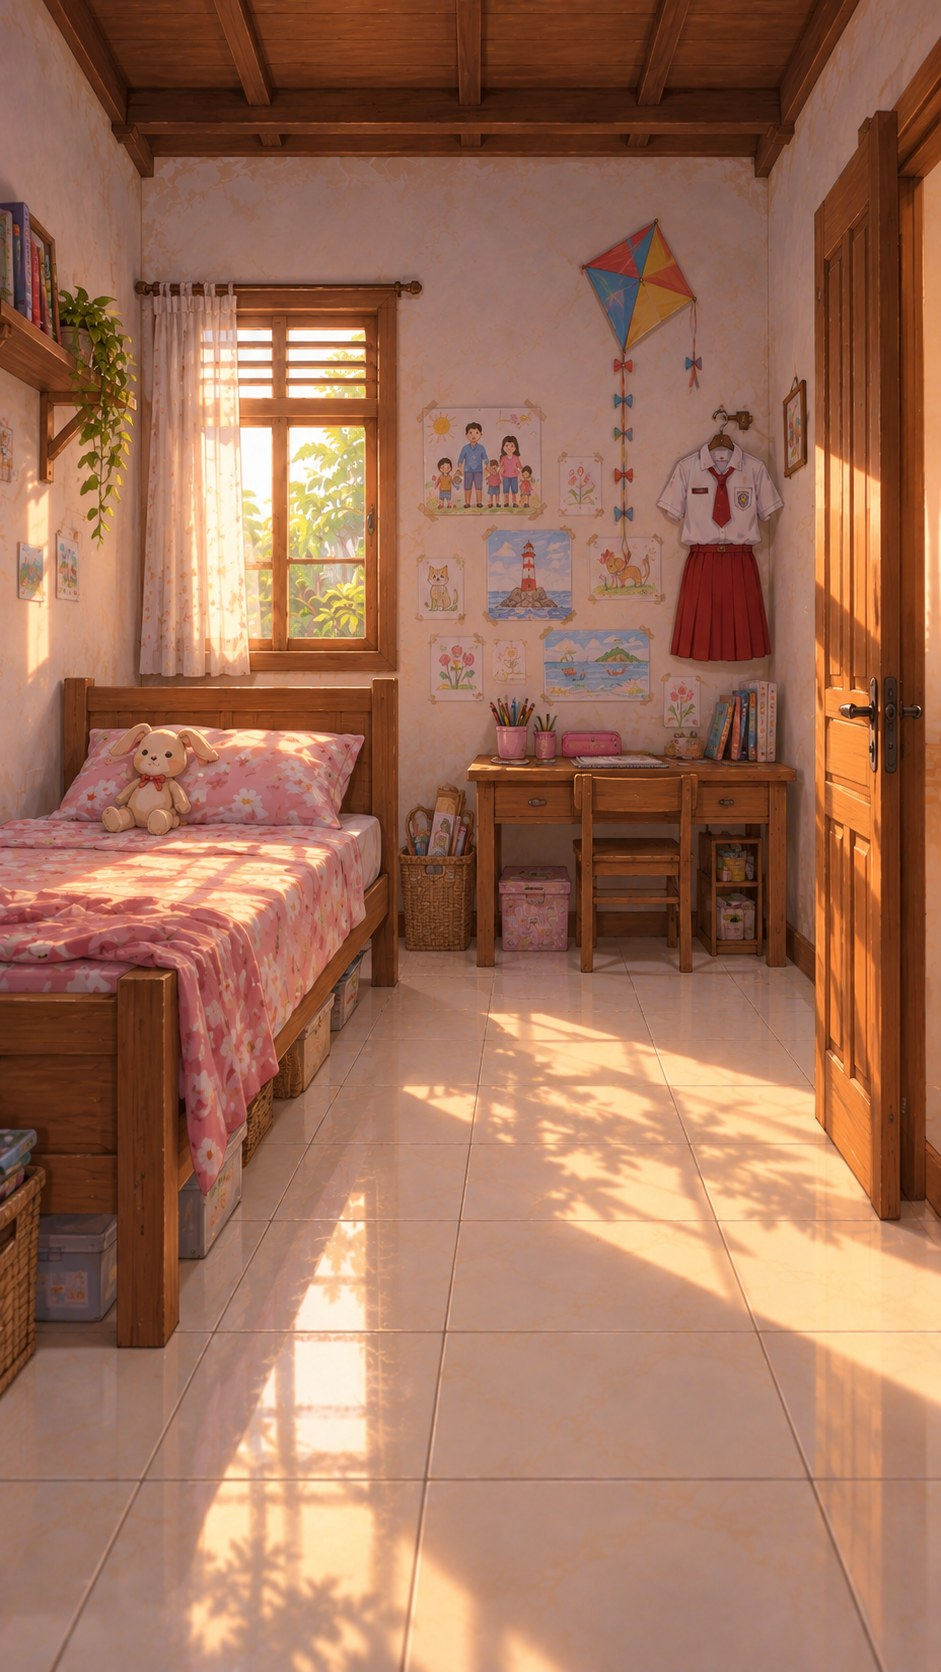
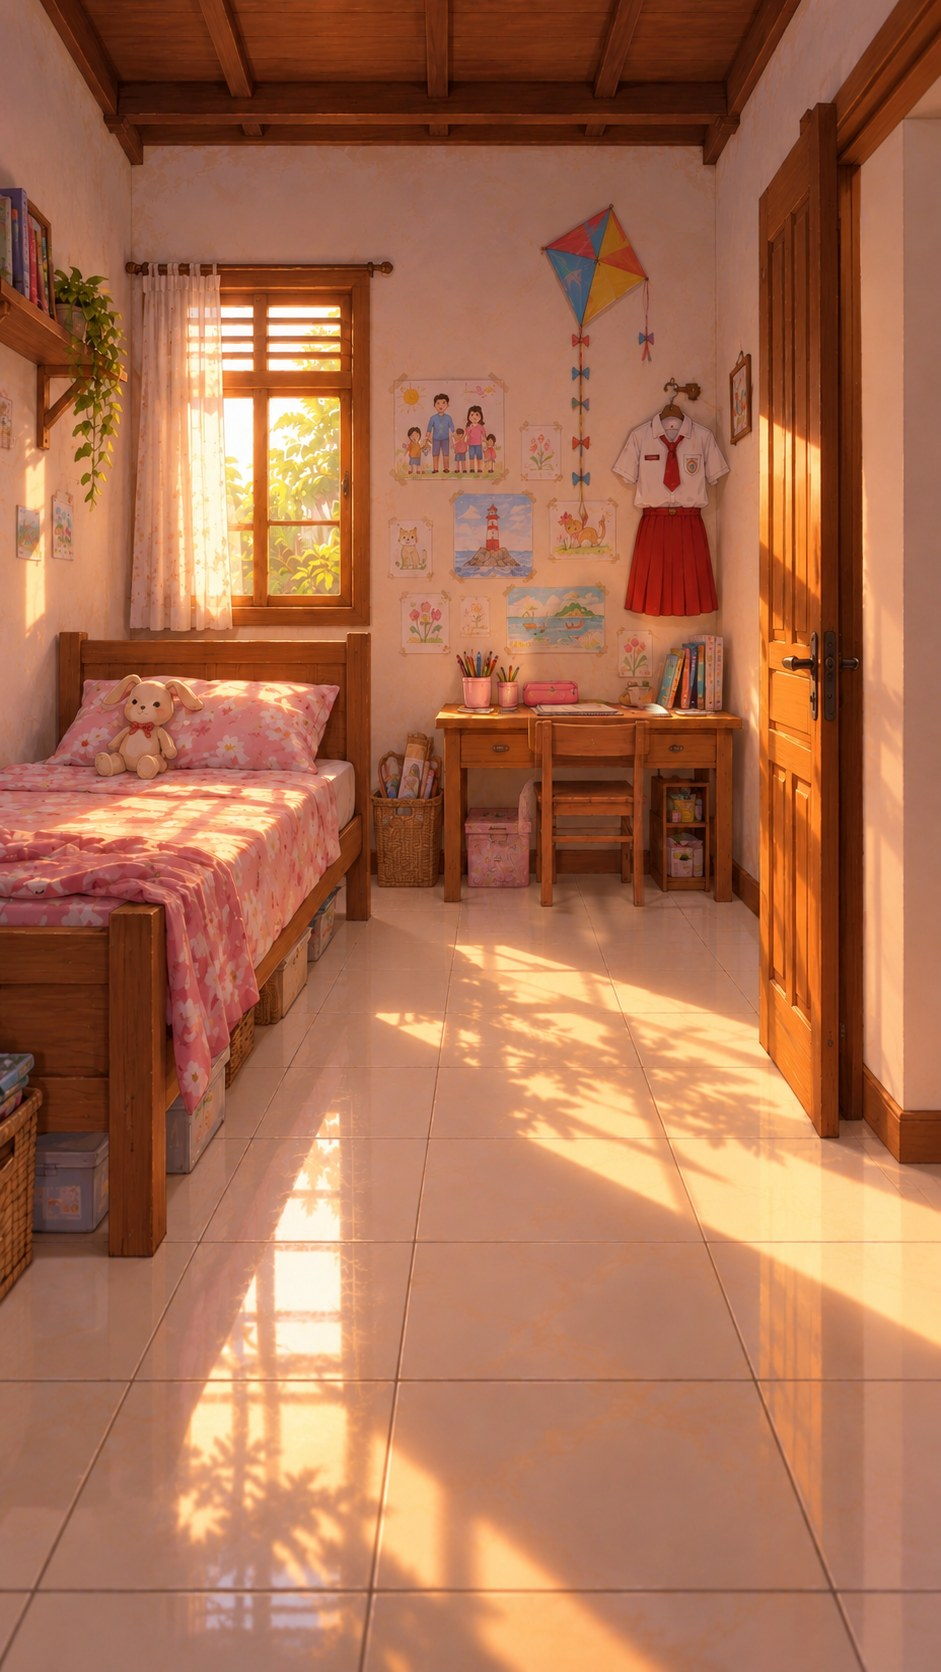
Kamar Laras lengkap (4 waktu, PR siang/sore, menggambar malam) + fitur tokoh tidur (Laras tidur di kamarnya)
Claude-Session: https://claude.ai/code/session_01MRhMC5f5cmwfwJoAVQABm5

diff --git a/app/src/main/java/com/valeriusgames/threadsofdestiny/game/GameActivity.kt b/app/src/main/java/com/valeriusgames/threadsofdestiny/game/GameActivity.kt
@@ -1274,6 +1274,28 @@ class GameActivity : Activity() {
             byPlan || byAppt
         }
 
+    /** Orang yang sedang TIDUR di lokasi ini (kolom "tidur" di karakter.txt); tidak sedang punya jadwal bangun. */
+    private fun sleepersAt(loc: GameData.LocationDef): List<GameData.CharacterDef> =
+        gameData.characters.values.filter { c ->
+            social.rel(c).met && presentInStory(c) && whereIs(c) == null &&
+                gameData.sleepLocation(c, life.weekdayIndex, life.minute, todayTgl()) == loc.id
+        }
+
+    /** Mengetuk orang yang sedang tidur: tidak membangunkannya; sekali semalam boleh merapikan selimutnya. */
+    private fun tapSleeper(c: GameData.CharacterDef) {
+        closeSheet()
+        hideExploreUi()
+        afterTap = { showFreeSheet() }
+        val key = "selimut_${c.id}"
+        if (vars[key] != life.day.toString()) {
+            vars[key] = life.day.toString()
+            announce(social.changeLove(gameData, c.id, 1))
+            showLine(null, c.text["tidur_teks"] ?: "${c.name} sudah tidur pulas. Kamu merapikan selimutnya pelan-pelan, lalu keluar tanpa suara.")
+        } else {
+            showLine(null, "${c.name} masih tidur pulas. Biarkan saja.")
+        }
+    }
+
     private fun buildExplore(loc: GameData.LocationDef) {
         if (wait != Wait.FREE || currentLocation()?.id != loc.id) return
         exploreLayer.removeAllViews()
@@ -1292,6 +1314,17 @@ class GameActivity : Activity() {
                     if (hints) addMarker("💬 ${c.name}", spot.x, spot.y - spot.height, 0) { meetCharacter(c) }
                 } else {
                     addMarker("👤 ${c.name}", spot.x, spot.y - spot.height * 0.6f, 0, always = true, showLabel = true) { meetCharacter(c) }
+                }
+            }
+            // orang yang tidur: posisi khusus "<id>_tidur" di lokasi.txt
+            sleepersAt(loc).forEach { c ->
+                val spot = loc.people.firstOrNull { it.charId == "${c.id}_tidur" }
+                    ?: loc.people.firstOrNull { it.charId == c.id } ?: GameData.PersonSpot(c.id, 0.5f, 0.80f, 0.20f)
+                if (drawn) {
+                    addTapZone(spot.x, spot.y, spot.height, sc) { tapSleeper(c) }
+                    if (hints) addMarker("😴 ${c.name}", spot.x, spot.y - spot.height, 0) { tapSleeper(c) }
+                } else {
+                    addMarker("😴 ${c.name}", spot.x, spot.y - spot.height * 0.6f, 0, always = true, showLabel = true) { tapSleeper(c) }
                 }
             }
         }
@@ -1422,7 +1455,7 @@ class GameActivity : Activity() {
      * latar/ruang_makan__ayah_ibu_laras.jpg. Hanya orang yang sudah dikenal; id diurutkan abjad. null bila belum ada.
      */
     private fun presenceFile(loc: GameData.LocationDef): String? {
-        val ids = peopleAt(loc).map { it.id }.sorted()
+        val ids = (peopleAt(loc).map { it.id } + sleepersAt(loc).map { "${it.id}_tidur" }).sorted()
         if (ids.isEmpty()) return null
         return "${loc.id}__${ids.joinToString("_")}".takeIf { it in latarFiles }
     }

diff --git a/app/src/test/java/com/valeriusgames/threadsofdestiny/ExploreTest.kt b/app/src/test/java/com/valeriusgames/threadsofdestiny/ExploreTest.kt
@@ -51,6 +51,11 @@ class ExploreTest {
         assertEquals("PR di kamarnya", "kamar_laras", at("laras", SENIN, "15:00"))
         assertEquals("TV malam", "ruang_tengah", at("laras", SENIN, "19:00"))
         assertEquals("menggambar sebelum tidur", "kamar_laras", at("laras", SENIN, "20:45"))
+        // tidur: tampil di kamarnya, bukan jadwal bangun
+        assertNull("tidur bukan jadwal bangun", at("laras", SENIN, "22:00"))
+        assertEquals("kamar_laras", GameData.locationAt(chars.getValue("laras")["tidur"], 0, 22 * 60))
+        assertEquals("kamar_laras", GameData.locationAt(chars.getValue("laras")["tidur"], 1, 5 * 60))
+        assertNull(GameData.locationAt(chars.getValue("laras")["tidur"], 1, 7 * 60))
         assertEquals("rumah_warung", at("laras", MINGGU, "09:00"))
         assertEquals("layangan Minggu", "lapangan", at("laras", MINGGU, "15:00"))
         assertEquals("lapangan", at("bayu", SENIN, "16:00"))

diff --git a/app/src/main/java/com/valeriusgames/threadsofdestiny/life/GameData.kt b/app/src/main/java/com/valeriusgames/threadsofdestiny/life/GameData.kt
@@ -75,6 +75,16 @@ class GameData private constructor(
     }
 
     /**
+     * Tempat karakter TIDUR sekarang (kolom "tidur", saat libur "tidur_libur"), atau null.
+     * Orang yang tidur tampil di latar (gambar latar/<lokasi>__<id>_tidur.jpg) tapi tidak bisa diajak bicara.
+     */
+    fun sleepLocation(c: CharacterDef, weekdayIndex: Int, minute: Int, tgl: Int = 0): String? {
+        val alt = c.text["tidur_libur"]
+        if (!alt.isNullOrBlank() && tgl > 0 && inDateRange(c.text["libur"], tgl)) return locationAt(alt, weekdayIndex, minute)
+        return locationAt(c.text["tidur"], weekdayIndex, minute)
+    }
+
+    /**
      * Karakter yang nama/jenis kelaminnya menyesuaikan pemain (kolom nama_l / nama_p,
      * kelamin = lawan). Diatur ulang lewat [applyPlayerGender].
      */

diff --git a/tools/cek_naskah.py b/tools/cek_naskah.py
@@ -269,6 +269,8 @@ if os.path.exists(lk):
                 err(lk, e["_line"], f"[{lid}] benda '{f[0]}': tambahkan {lid} ke 'lokasi' aktivitas itu di aktivitas.txt")
         for part in [p for p in e.get("orang", "").split(";") if p.strip()]:
             cid = part.strip().split()[0]
+            if cid.endswith("_tidur"):  # posisi saat tidur (kolom "tidur" di karakter.txt)
+                cid = cid[:-len("_tidur")]
             if cid not in chars:
                 err(lk, e["_line"], f"[{lid}] orang '{cid}' tidak ada di karakter.txt")
     for c in entries(os.path.join(data, "karakter.txt")):

diff --git a/docs/PROGRES.md b/docs/PROGRES.md
@@ -10,6 +10,7 @@
 
 | Tanggal | Build | Yang dikerjakan |
 |---|---|---|
+| 21 Okt 2026 | 62 | **Kamar Laras lengkap + Laras tidur.** Gambar baru pemilik: kamar Laras pagi/siang/sore/malam (versi sore kosong dibuat dengan menghapus Laras dari gambar sore), Laras PR siang & sore, Laras menggambar malam, Laras tidur. **Fitur baru: tokoh tidur** — kolom `tidur` / `tidur_libur` / `tidur_teks` di karakter.txt; orang yang tidur tampil di latar (`<lokasi>__<id>_tidur.jpg`, posisi `<id>_tidur` di lokasi.txt), tidak bisa diajak bicara; diketuk = merapikan selimutnya (sekali semalam, Cinta +1). Laras tidur di kamarnya 21:00–06:15 (libur sampai 07:30) |
 | 21 Okt 2026 | 61 | **Rumah desa: ruang tengah baru + 2 kamar baru** (keputusan pemilik). Denah: dinding kiri = dinding luar (pintu depan, jendela, foto keluarga), pintu **kamar Ayah & Ibu** di dinding belakang kiri lengkungan, ruang makan hanya selebar lengkungan, pintu **kamar Laras** & kamarmu di dinding kanan. Ruang tengah punya 4 versi waktu (gambar dasar = sore, + pagi/siang/malam) dan gambar dengan tokoh: sore Ayah, malam Ibu & Laras, malam Ibu sendiri (Laras dihapus dari gambar malam). Lokasi baru `kamar_ayah_ibu` & `kamar_laras`. Laras mengerjakan PR di kamarnya (14:00–16:00) dan menggambar sebelum tidur (20:30–21:00); kegiatan *Membantu PR Laras*, adegan *Laras diejek* & *PR matematika* (Bab 2) dan *kotak sepatu* (Bab 3 desa) pindah ke kamar Laras; adegan *celengan bambu* (Bab 3 kota) pindah ke kamar Ayah & Ibu. Posisi pintu/benda/orang ruang tengah disesuaikan dengan gambar baru |
 | 20 Okt 2026 | 59 | **Sisa putih di celah tangan dihapus** (masukan pemilik): celah latar yang terkurung antara lengan & badan / sela kaki / sela rambut tidak terhapus oleh `hapus_latar.py` (hanya membuang putih yang tersambung ke tepi). Alat baru `tools/hapus_celah.py` membuang putih rata ≥ 247 (latar AI) tanpa menyentuh baju/kerudung putih yang berbayang (± 235–242), tepi dihaluskan. 44 file diperbaiki: Ayah, Bayu, Dimas, Sekar, Alya, tokoh utama perempuan, Pak Karta, Pak Usman, Bu Ratmi, Bu Sum, Bu Tini, Kak Tiara, Pak Kades, Mantri, Dino (semua ekspresi). Jalankan `python3 tools/hapus_celah.py --cek app/src/main/assets/karakter/*` setelah menambah gambar tokoh baru |
 | 20 Okt 2026 | 58 | **Gambar baru dari pemilik terpasang:** 23 tokoh (desa: Pak Karta, Pak Usman, Mbak Yati, Pak Haji, Bu Wati, Kak Wulan, Bu Narti, Pak RT, Pak Kades, Mantri Joko, Rani, Dodi, Dino · kota: Bu Ratmi, Bu Hartini, Mas Bram, Bu Rahma, Reno, Kak Tiara, Bu Sum, Pak Hendra, Bu Tini, Bang Raka) — latar putih dihapus (`hapus_latar.py`), 30 ekspresi diselaraskan ke gambar biasa (`selaraskan_ekspresi.py`, kini juga menerima gambar biasa .webp), foto profil `_foto.jpg` 512×512 dibuat otomatis; gambar biasa tokoh baru disimpan WebP agar APK tidak membengkak. Latar baru (kosong, tanpa tokoh): **dermaga** pagi/siang/sore (+ malam yang sudah ada), **lapangan**, **Pasar Lama**, **Pelabuhan**; posisi pintu/benda/orang di lapangan, dermaga, pelabuhan disesuaikan dengan gambar baru |

diff --git a/docs/DATA.md b/docs/DATA.md
@@ -244,6 +244,8 @@ Hanya orang yang **sudah dikenal**, ada di **tempat yang sama** (desa/kota), dan
 | Sahabat | tidak | hanya lewat cerita |
 `ada_bila` (opsional) = syarat karakter masih ada di tempatnya; mis. Sekar tidak ada lagi di desa setelah berangkat beasiswa ke Sakala.
 Boleh memakai `&&` (semua harus benar) dan `||` (salah satu cukup), juga di `syarat` adegan, aktivitas, pekerjaan, Sosmed.
+`tidur` / `tidur_libur` (opsional) = tempat & jam tidur, mis. Laras `tidur = setiap hari 21:00-06:15 kamar_laras`. Orang yang tidur tampil di latar
+(gambar `latar/<lokasi>__<id>_tidur.jpg`, posisi `<id>_tidur` di lokasi.txt) tapi tidak bisa diajak bicara; diketuk = merapikan selimut (`tidur_teks`).
 `libur` + `lokasi_libur` (opsional) = jadwal pengganti di rentang tanggal tertentu, mis. Laras `libur = 622-712` (libur kenaikan kelas,
 tanggal = bulan×100 + hari) dengan `lokasi_libur` berisi jadwal seharian di rumah/warung/lapangan.
 
